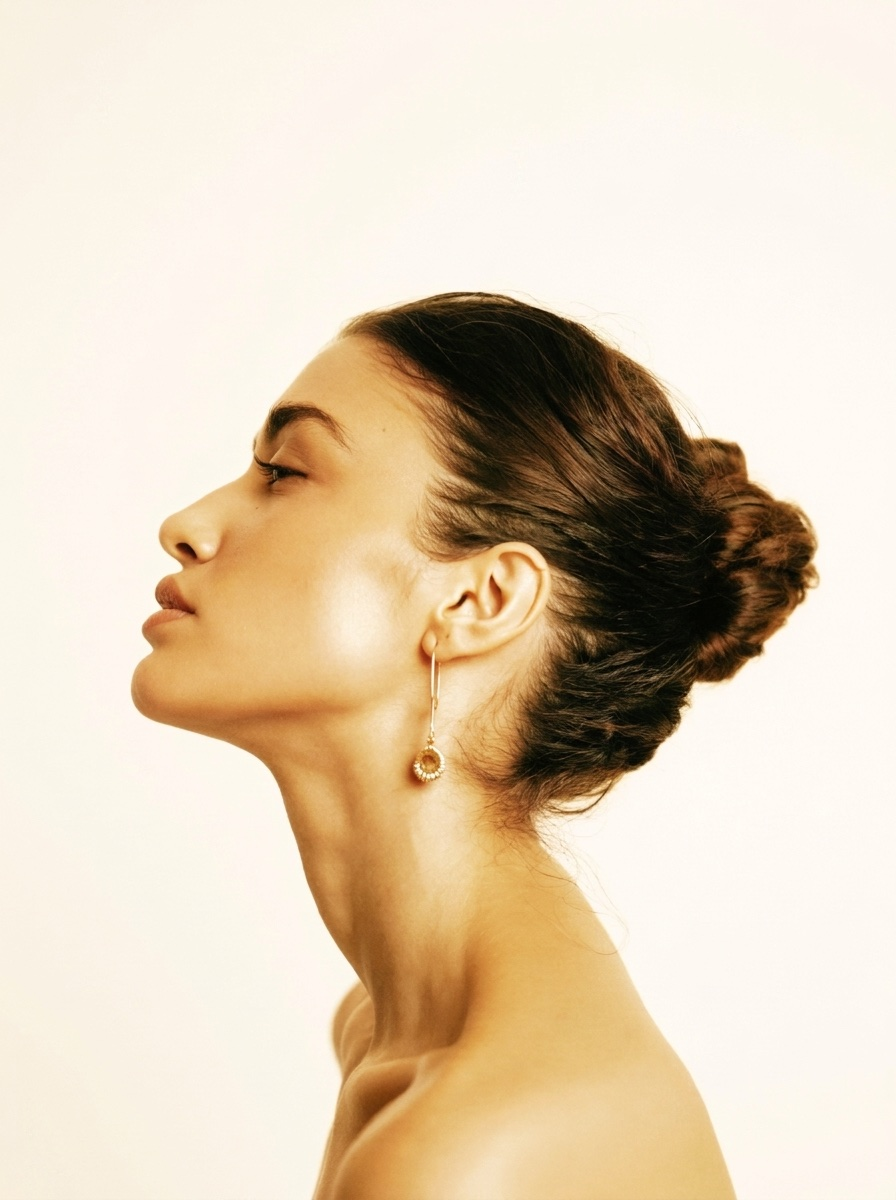
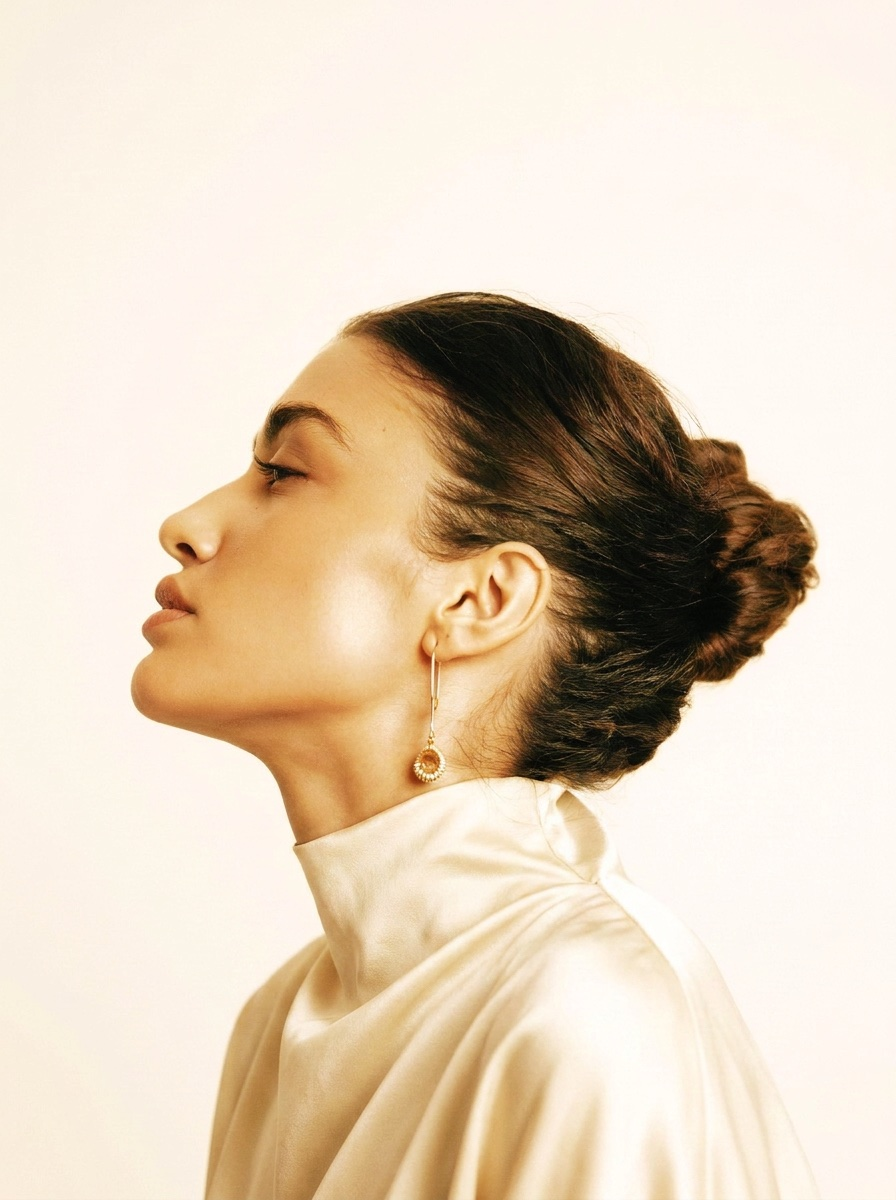
neck-lift: modest hero portraits; collage columns drift as units
Replace both hero portraits with nano_banana edits that dress the model
in a high-neck cream silk top (only face, neck and hand visible) for the
Saudi audience. Fix the hero scroll interaction: per-tile drift speeds
made images collide, so each collage column now drifts as a single unit
at its own speed.

Claude-Session: https://claude.ai/code/session_01DWAVsRVVwWPxTf4v576gDe

diff --git a/app/(landings)/neck-lift/_components/Hero.tsx b/app/(landings)/neck-lift/_components/Hero.tsx
@@ -48,7 +48,8 @@ export function Hero() {
         "-=0.6",
       );
 
-      // scroll response: copy softens out, tiles drift at differing speeds
+      // scroll response: copy softens out; each collage COLUMN drifts as one
+      // unit (per-tile speeds made tiles collide into each other)
       gsap.to(".nkl-copy", {
         y: -40,
         autoAlpha: 0.25,
@@ -61,17 +62,25 @@ export function Hero() {
           scrub: true,
         },
       });
-      gsap.utils.toArray<HTMLElement>(".nkl-tile").forEach((el, i) => {
-        gsap.to(el, {
-          y: [-60, -110, -30, -80][i % 4],
-          ease: "none",
-          scrollTrigger: {
-            trigger: rootRef.current,
-            start: "top top",
-            end: "bottom top",
-            scrub: true,
-          },
-        });
+      gsap.to(".nkl-col-a", {
+        y: -34,
+        ease: "none",
+        scrollTrigger: {
+          trigger: rootRef.current,
+          start: "top top",
+          end: "bottom top",
+          scrub: true,
+        },
+      });
+      gsap.to(".nkl-col-b", {
+        y: -86,
+        ease: "none",
+        scrollTrigger: {
+          trigger: rootRef.current,
+          start: "top top",
+          end: "bottom top",
+          scrub: true,
+        },
       });
     },
     { scope: rootRef },
@@ -195,7 +204,7 @@ export function Hero() {
         {/* ——— collage (left in RTL) ——— */}
         <div className="relative mx-auto w-full max-w-[480px]">
           <div className="grid grid-cols-2 gap-4">
-            <div className="flex flex-col gap-4">
+            <div className="nkl-col-a flex flex-col gap-4">
               <div className="nkl-tile relative aspect-[3/4] overflow-hidden rounded-[26px] border border-[var(--color-nkl-line-strong)] shadow-[0_36px_70px_-30px_rgba(138,100,48,0.45)]">
                 <Image
                   src="/neck-lift/hero-main.jpg"
@@ -217,7 +226,7 @@ export function Hero() {
                 />
               </div>
             </div>
-            <div className="mt-10 flex flex-col gap-4">
+            <div className="nkl-col-b mt-10 flex flex-col gap-4">
               <div className="nkl-tile relative aspect-square overflow-hidden rounded-full border border-[var(--color-nkl-line-strong)] shadow-[0_30px_60px_-28px_rgba(138,100,48,0.4)]">
                 <Image
                   src="/neck-lift/hero-orb.jpg"
